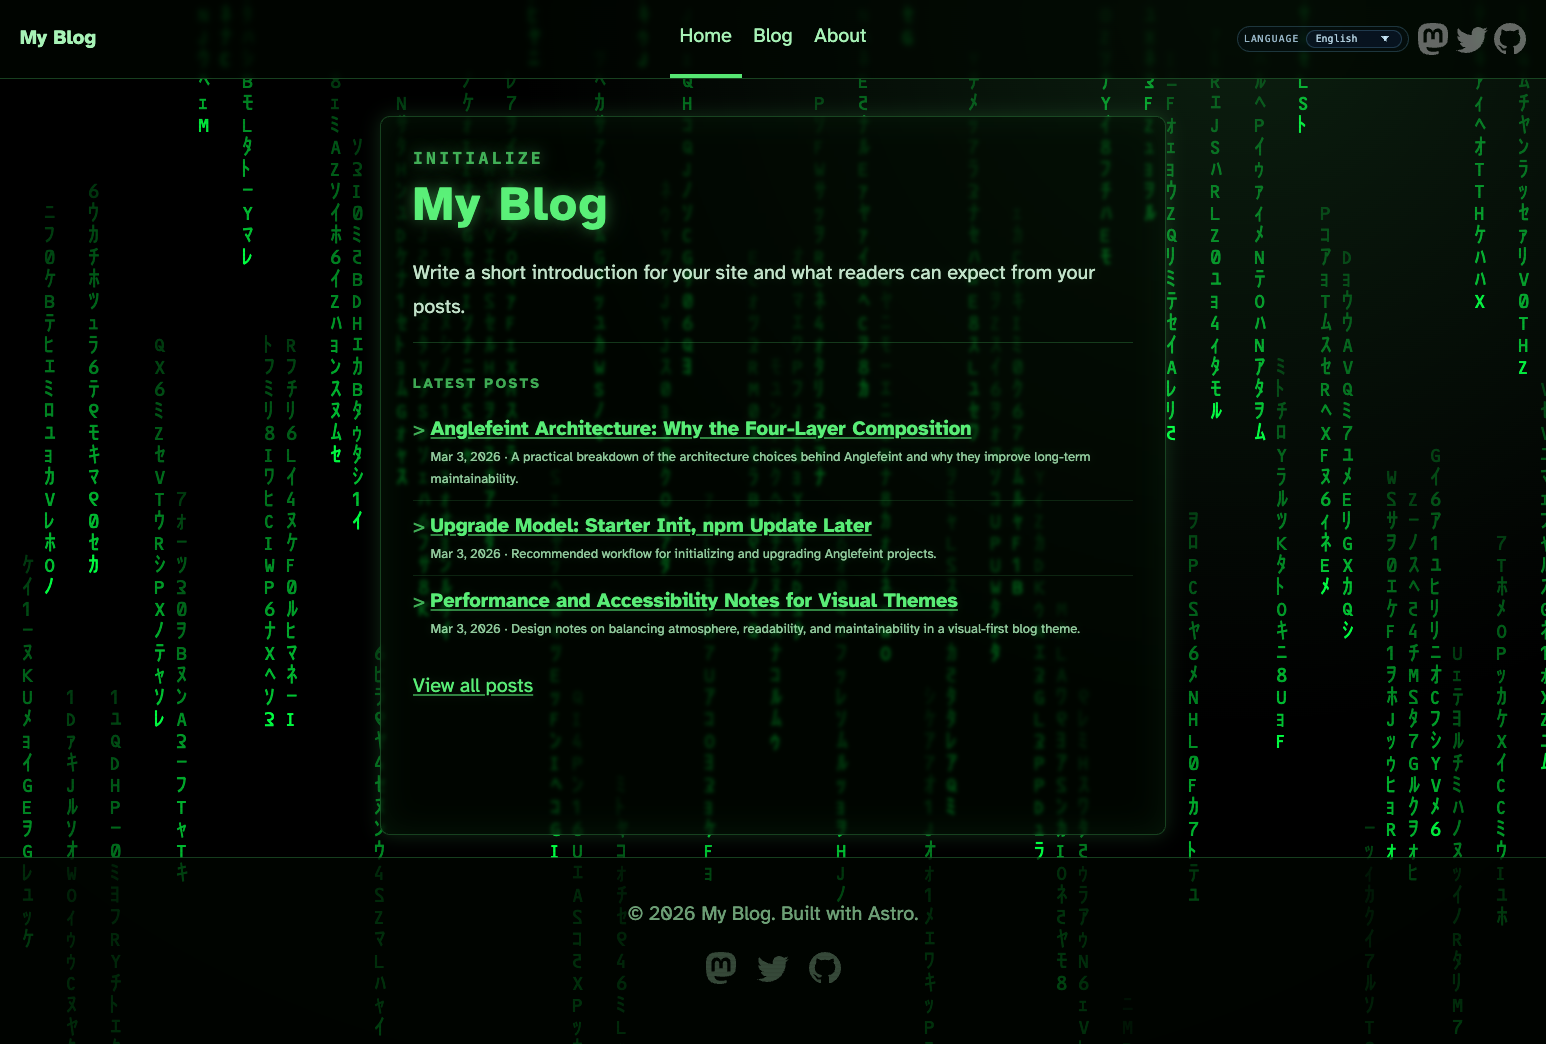
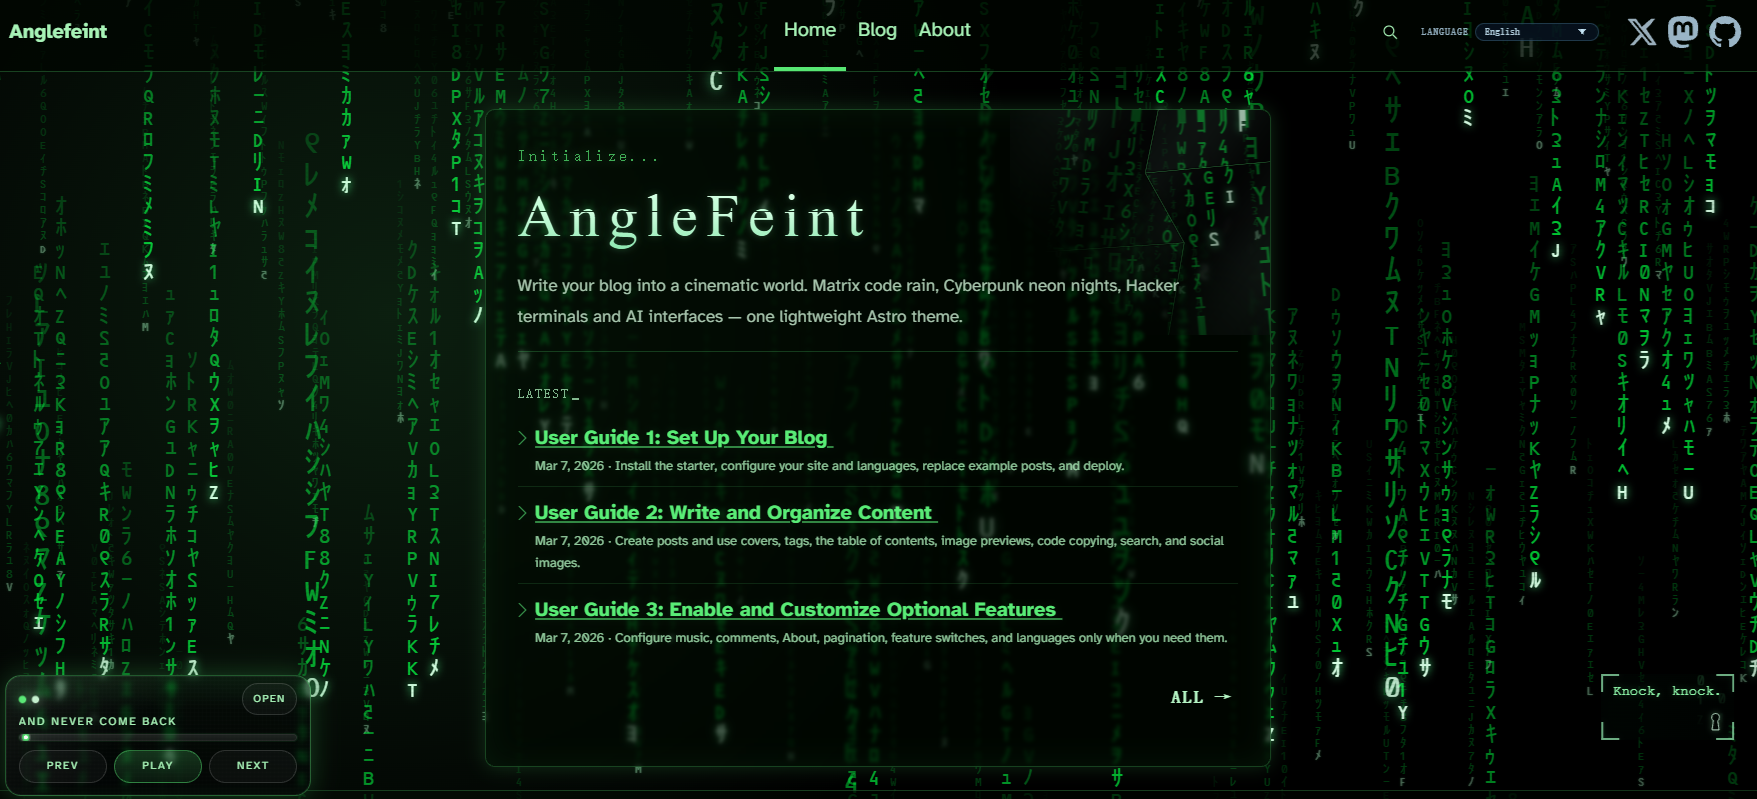
chore: upgrade official starter and theme to 0.20.0

diff --git a/AGENTS.md b/AGENTS.md
@@ -17,9 +17,9 @@ This is a personal blog built from the Anglefeint starter. Help its owner config
 
 Read [README.md](README.md) or the owner's language version, then inspect `package.json` and the existing `src/site.config.ts`. Read only the tutorial needed for the task:
 
-- [Setup and deployment](https://github.com/anglefeint/astro-theme-anglefeint/blob/v0.18.0/src/content/blog/en/starter-guide-1-configure-your-site.md)
-- [Writing and content](https://github.com/anglefeint/astro-theme-anglefeint/blob/v0.18.0/src/content/blog/en/starter-guide-2-languages-and-routing.md)
-- [Optional features](https://github.com/anglefeint/astro-theme-anglefeint/blob/v0.18.0/src/content/blog/en/starter-guide-3-comments-about-and-theme-toggles.md)
+- [Setup and deployment](https://github.com/anglefeint/astro-theme-anglefeint/blob/v0.20.0/src/content/blog/en/starter-guide-1-configure-your-site.md)
+- [Writing and content](https://github.com/anglefeint/astro-theme-anglefeint/blob/v0.20.0/src/content/blog/en/starter-guide-2-languages-and-routing.md)
+- [Optional features](https://github.com/anglefeint/astro-theme-anglefeint/blob/v0.20.0/src/content/blog/en/starter-guide-3-comments-about-and-theme-toggles.md)
 
 Starter tutorials are intentionally not published as articles on this blog. The links above reference the matching upstream release. Actual local configuration and code determine behavior; examples should be merged into the existing configuration.
 

diff --git a/public/images/theme-previews/README.md b/public/images/theme-previews/README.md
@@ -6,9 +6,11 @@ Recommended files:
 
 - `preview-home.png`
 - `preview-blog-list.png`
+- `preview-blog-list-pagination.png`
 - `preview-blog-post-open.png`
 - `preview-blog-post-collapsed.png`
 - `preview-about.png`
+- `preview-decoder.png`
 - `preview-about-modal.png`
 
 Recommended size:
